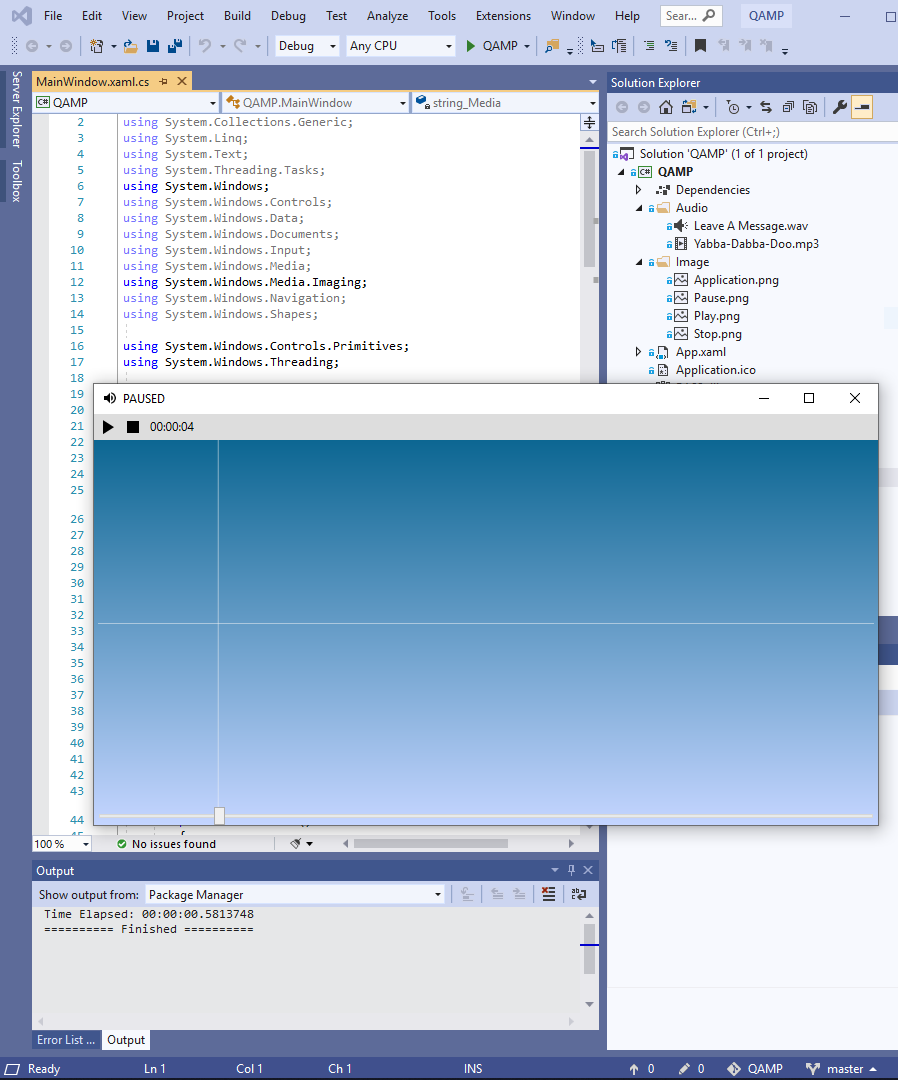
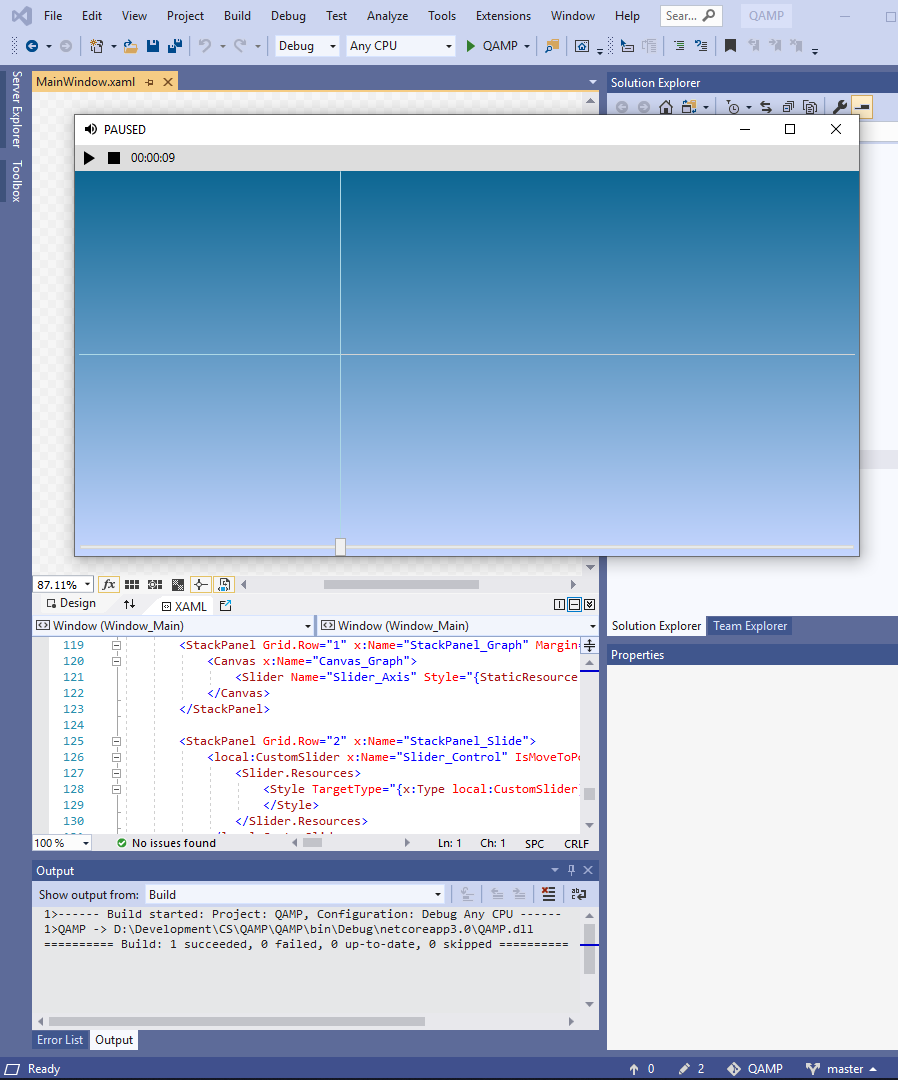
Convert to slider axis.

diff --git a/QAMP/MainWindow.xaml b/QAMP/MainWindow.xaml
@@ -13,6 +13,87 @@
         </LinearGradientBrush>
     </Window.Background>
 
+    <Window.Resources>
+
+        <Style x:Key="Slider_Left" TargetType="RepeatButton">
+            <Setter Property="SnapsToDevicePixels" Value="true" />
+            <Setter Property="OverridesDefaultStyle" Value="true" />
+            <Setter Property="IsTabStop" Value="false" />
+            <Setter Property="Focusable" Value="false" />
+            <Setter Property="Template">
+                <Setter.Value>
+                    <ControlTemplate TargetType="RepeatButton">
+                        <Border SnapsToDevicePixels="True" Background="LightBlue" Height="1"/>
+                    </ControlTemplate>
+                </Setter.Value>
+            </Setter>
+        </Style>
+
+        <Style x:Key="Slider_Right" TargetType="RepeatButton">
+            <Setter Property="SnapsToDevicePixels" Value="true" />
+            <Setter Property="OverridesDefaultStyle" Value="true" />
+            <Setter Property="IsTabStop" Value="false" />
+            <Setter Property="Focusable" Value="false" />
+            <Setter Property="Template">
+                <Setter.Value>
+                    <ControlTemplate TargetType="RepeatButton">
+                        <Border SnapsToDevicePixels="True" Background="LightGray" Height="1"/>
+                    </ControlTemplate>
+                </Setter.Value>
+            </Setter>
+        </Style>
+
+        <Style x:Key="Slider_Thumb" TargetType="Thumb">
+            <Setter Property="SnapsToDevicePixels" Value="true" />
+            <Setter Property="OverridesDefaultStyle" Value="true" />
+            <Setter Property="Template">
+                <Setter.Value>
+                    <ControlTemplate TargetType="Thumb">
+                        <!--<Ellipse Height="24" Width="24">
+                            <Ellipse.Fill>
+                                <ImageBrush ImageSource="Image\Stop.png"></ImageBrush>
+                            </Ellipse.Fill>
+                        </Ellipse>-->
+                        <Ellipse Fill="LightBlue" Stroke="LightBlue" Height="{Binding ElementName=StackPanel_Graph,Path=ActualHeight}" Width="1"/>
+                    </ControlTemplate>
+                </Setter.Value>
+            </Setter>
+        </Style>
+
+        <ControlTemplate x:Key="Slider"  TargetType="Slider">
+            <Grid>
+                <Grid.RowDefinitions>
+                    <RowDefinition Height="Auto" />
+                    <RowDefinition Height="Auto" MinHeight="{TemplateBinding MinHeight}" />
+                    <RowDefinition Height="Auto" />
+                </Grid.RowDefinitions>
+                <Track Grid.Row="1" x:Name="PART_Track"   >
+                    <Track.DecreaseRepeatButton>
+                        <RepeatButton Style="{StaticResource Slider_Left}"  Command="Slider.DecreaseLarge" />
+                    </Track.DecreaseRepeatButton>
+                    <Track.Thumb>
+                        <Thumb Style="{StaticResource Slider_Thumb}"  />
+                    </Track.Thumb>
+                    <Track.IncreaseRepeatButton>
+                        <RepeatButton Style="{StaticResource Slider_Right}" Command="Slider.IncreaseLarge" />
+                    </Track.IncreaseRepeatButton>
+
+                </Track>
+            </Grid>
+        </ControlTemplate>
+
+        <Style x:Key="Slider_Axis_Style" TargetType="Slider">
+            <Setter Property="Focusable" Value="False"/>
+            <Setter Property="SnapsToDevicePixels" Value="true" />
+            <Setter Property="OverridesDefaultStyle" Value="true" />
+            <Style.Triggers>
+                <Trigger Property="Orientation" Value="Horizontal">
+                    <Setter Property="Template" Value="{StaticResource Slider}" />
+                </Trigger>
+            </Style.Triggers>
+        </Style>
+    </Window.Resources>
+
     <Grid x:Name="Grid_Main">
 
         <Grid.RowDefinitions>
@@ -35,13 +116,12 @@
             <TextBlock Name="TextBlock_Height" HorizontalAlignment="Center" VerticalAlignment="Center" Margin="2,0,0,1" Text="{Binding ElementName=StackPanel_Graph,Path=ActualHeight}"></TextBlock>-->
         </StackPanel>
 
-        <StackPanel Grid.Row="1" x:Name="StackPanel_Graph" Margin="4,0">
+        <StackPanel Grid.Row="1" x:Name="StackPanel_Graph" Margin="4,0,4,0">
             <Canvas x:Name="Canvas_Graph">
-                <Line x:Name="Line_Horizontal_Axis" X1="0" Y1="0" X2="{Binding ElementName=Canvas_Graph,Path=ActualWidth}" Y2="0" Stroke="WhiteSmoke" StrokeThickness="0.5"/>
-                <Line x:Name="Line_Vertical_Axis" X1="0" Y1="0" X2="0" Y2="{Binding ActualHeight, Mode=OneWay, RelativeSource={RelativeSource FindAncestor, AncestorType={x:Type local:MainWindow}}}" Stroke="WhiteSmoke" StrokeThickness="0.5"/>
+                <Slider Name="Slider_Axis" Style="{StaticResource Slider_Axis_Style}" MinWidth="{Binding ElementName=Canvas_Graph,Path=ActualWidth}" MinHeight="{Binding ElementName=StackPanel_Graph,Path=ActualHeight}" IsEnabled="False"/>
             </Canvas>
         </StackPanel>
-       
+      
         <StackPanel Grid.Row="2" x:Name="StackPanel_Slide">
             <local:CustomSlider x:Name="Slider_Control" IsMoveToPointEnabled="True" IsSnapToTickEnabled="False" AutoToolTipPlacement="TopLeft" AutoToolTipPrecision="2" Thumb.DragStarted="Slider_Control_DragStarted" Thumb.DragCompleted="Slider_Control_DragCompleted" ValueChanged="Slider_Control_ValueChanged">
                 <Slider.Resources>

diff --git a/QAMP/MainWindow.xaml.cs b/QAMP/MainWindow.xaml.cs
@@ -38,9 +38,6 @@ namespace QAMP
         private bool bool_Playing = false;
         private bool bool_Sliding = false;
 
-        double double_Horizontal_Axis_Margin_Top = 0;
-        double double_Vertical_Axis_Margin_Left = 0;
-
         public MainWindow()
         {
             InitializeComponent();
@@ -76,6 +73,9 @@ namespace QAMP
                         Slider_Control.Minimum = 0;
                         Slider_Control.Maximum = double_Duration_Seconds;
 
+                        Slider_Axis.Minimum = 0;
+                        Slider_Axis.Maximum = double_Duration_Seconds;
+
                         Window_Main.Title = "Stream created.";
 
                         Button_Play.RaiseEvent(new RoutedEventArgs(ButtonBase.ClickEvent));
@@ -90,25 +90,12 @@ namespace QAMP
 
         private void Handle_Window_Main_SizeChanged(object sender, SizeChangedEventArgs e)
         {
-            Update_Horizontal_Axis();
-            Update_Vertical_Axis();
         }
 
         private void Handle_Window_Main_Closing(object Sender, System.ComponentModel.CancelEventArgs E)
         {
             Bass.BASS_StreamFree(int_Stream);
             Bass.BASS_Free();
-        }
-
-        private void Update_Horizontal_Axis()
-        {
-            double_Horizontal_Axis_Margin_Top = (StackPanel_Graph.ActualHeight / 2);
-            Line_Horizontal_Axis.Margin = new Thickness(0, double_Horizontal_Axis_Margin_Top, 0, 0);
-        }
-        private void Update_Vertical_Axis()
-        {
-            double_Vertical_Axis_Margin_Left = ((Slider_Control.Value / Slider_Control.Maximum) * (StackPanel_Graph.ActualWidth));
-            Line_Vertical_Axis.Margin = new Thickness(double_Vertical_Axis_Margin_Left, 0, 0, 0);
         }
 
         private void Handle_Button_Play_Click(object Sender, RoutedEventArgs E)
@@ -183,7 +170,7 @@ namespace QAMP
         {
             TextBlock_TimeCode.Text = TimeSpan.FromSeconds(Slider_Control.Value).ToString(@"hh\:mm\:ss");
 
-            Update_Vertical_Axis();
+            Slider_Axis.Value = Slider_Control.Value;
         }
 
         private void Timer_Tick(object Sender, EventArgs E)
